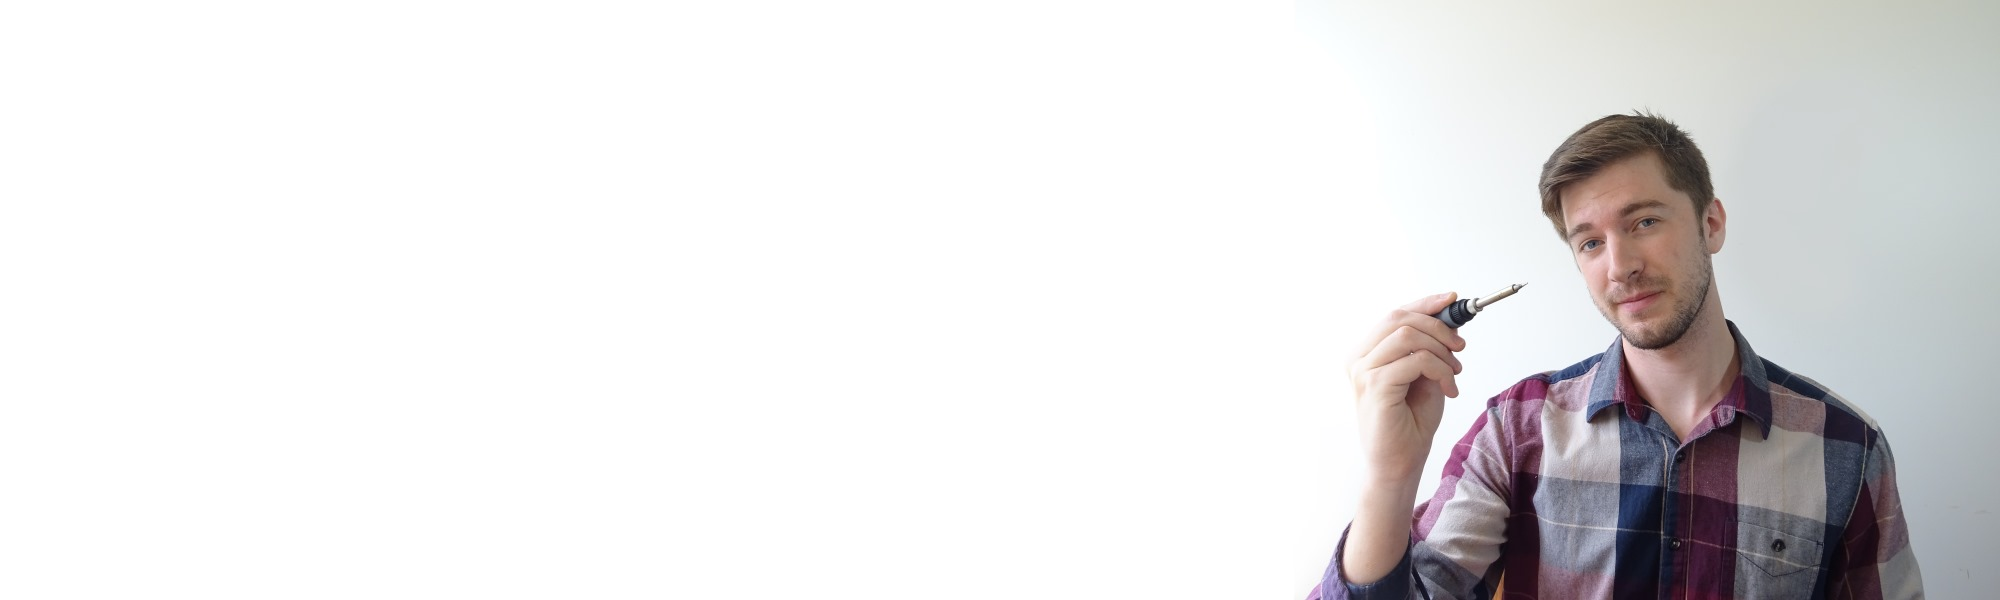
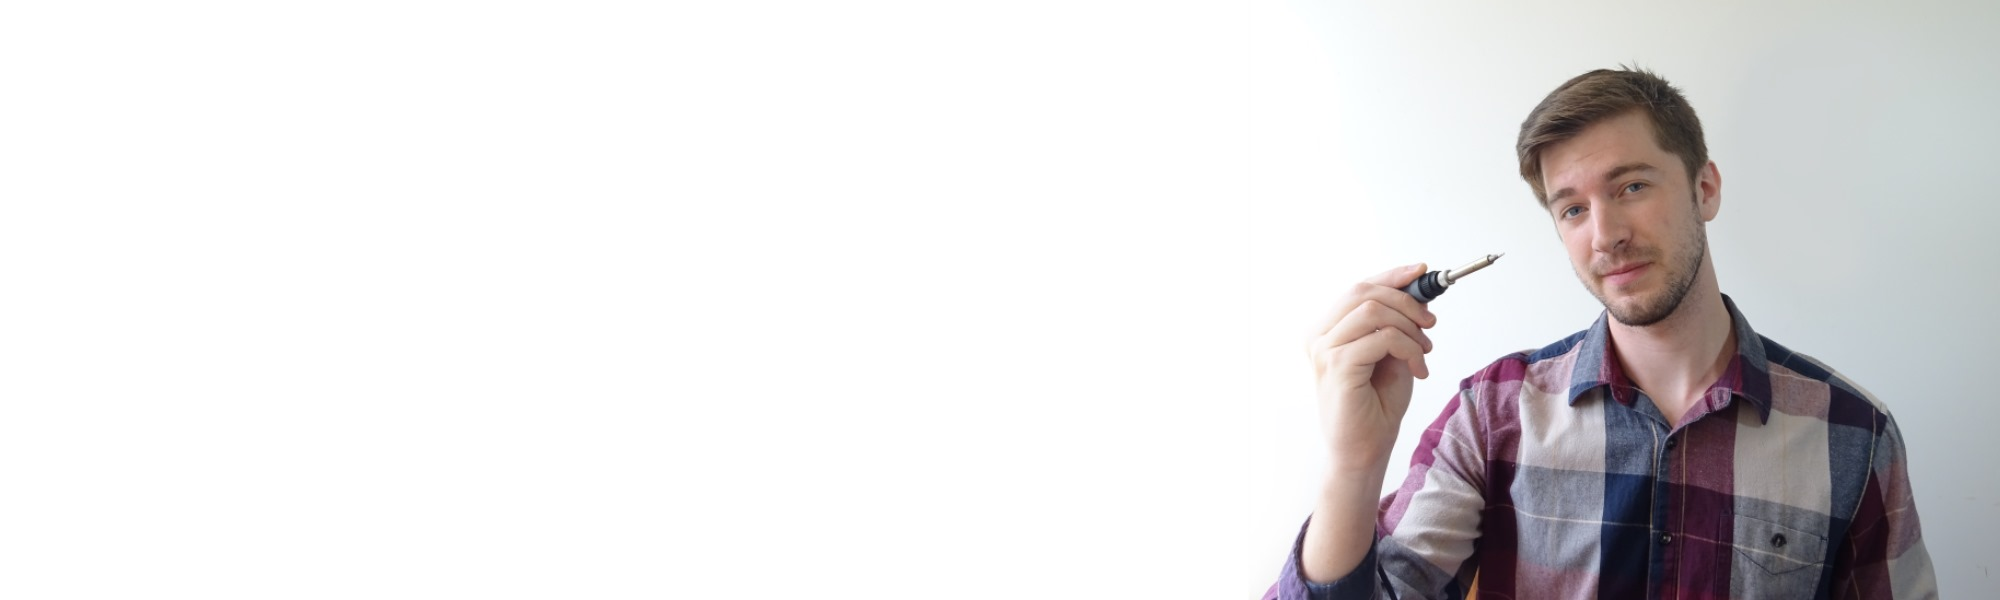
update

Changed region(s): [[0.62, 0.09, 0.992, 1.0]]

diff --git a/stylesheet1.css b/stylesheet1.css
@@ -190,18 +190,28 @@ footer {
 /* After this is the more specific classes*/
 
 #aboutme {
-    font-family: 'Exo 2', sans-serif;
+    font-family: 'Lato', sans-serif;
     font-size: 30px;    
     color: black;
     display: block;
     background-color: white;
-    background-image: url("images/wrapper2.jpg");
+    background-image: url("images/wrapper1.jpg");
     background-size: cover;
-    background-position: center;
-    height: 30vw;
+    background-repeat: no-repeat;
+    background-position: right;
+    height: auto;
     margin: auto;
     overflow: hidden;
     position: relative;
+    -webkit-transition: all 0.3s ease-in;
+    -moz-transition: all 0.3s ease-in;
+    -o-transition: all 0.3s ease-in;
+    transition: all 0.3s ease-in;
+}
+
+#aboutme:hover {    
+    background-color: white;
+    background-image: url("images/wrapper2.jpg");    
     -webkit-transition: all 0.3s ease-in;
     -moz-transition: all 0.3s ease-in;
     -o-transition: all 0.3s ease-in;
@@ -213,7 +223,7 @@ footer {
     font-size: 30px;
     color: white;
     display: block;
-    background-color: black;
+    background-color: #280000;
     height: auto;
     width: auto;
     padding-bottom: 20px;
@@ -243,32 +253,17 @@ footer {
     height: auto;     
 }
 
-#basesectdiv {    
-    margin: 30px;    
-    padding-top: 2%;
-    padding-bottom: 2%;
+#basesectdiv {
+    font-family: 'Lato', sans-serif;
+    margin: 3vw;
+    margin-top: 5vw;
+    margin-bottom: 5vw;
+    max-width: 75%;
 }
 
 
-#squimg {
-    display: inline-block;       
-    margin: auto;
-    float: right;
-    width: auto;
-    max-width: 25%;
-    z-index: 995;
-    height: 25%;
-    transform:translate(0,3px)
-}
 
-.basesecttex {
-    display: inline-block;
-    font-size: 2vw;
-    padding: 30px;
-    margin-left: 20vw;
-    line-height: 2.5vw;    
-    overflow-x: hidden;
-}
+
 
 .fixedtext {
     width: 100vw;

diff --git a/index.html b/index.html
@@ -1,7 +1,7 @@
 <!DOCTYPE html>
 <html>
 <head>
-    <link rel="stylesheet" href="https://fonts.googleapis.com/css?family=Montserrat|Titillium+Web|Exo+2:200" />
+    <link rel="stylesheet" href="https://fonts.googleapis.com/css?family=Montserrat|Titillium+Web|Exo+2:200|Lato" />
     <link rel="stylesheet" href="/Skedaddlez/stylesheet1.css">
     <link rel="stylesheet" href="stylesheet1.css">    
     <title>Stephen Dudley</title>
@@ -80,8 +80,8 @@
             <section>                
                 <div id="aboutme">                    
                     <div id="basesectdiv">                        
-                        <p align="left" class="basesecttex">
-                            <h1 align="left" style="font-size: 3vw;">About Me</h1>
+                        <p align="left">
+                            <h2 align="left" style="">About Me</h2>
                             <hr class="breakl" style="margin-left: 10px; margin-top: 0.5vw; margin-bottom: 1vw; width: 60%" />
                             My name is Stephen, and I am an Engineering Student at the University of Sydney.<br><br>
                             My greatest wish is to create something that changes the world...<br><br>...but for now I'll settle for just creating a mess
